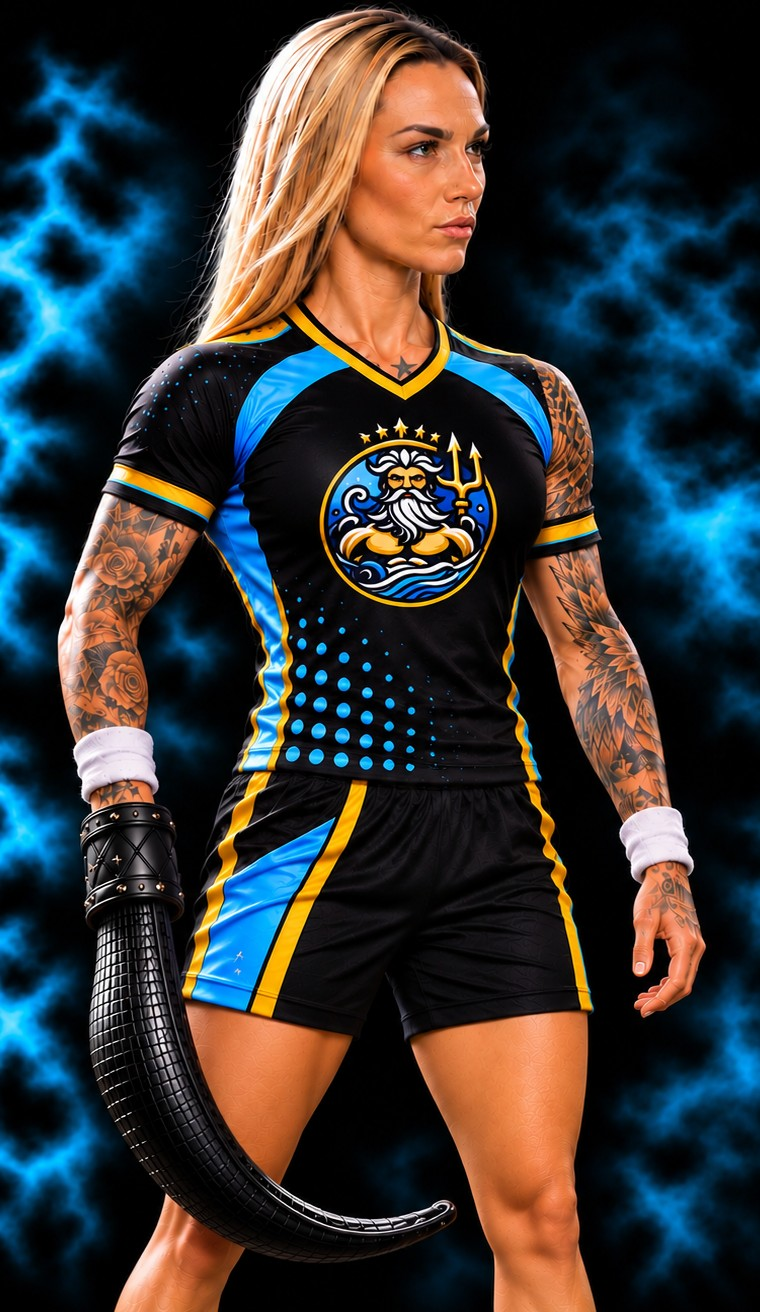
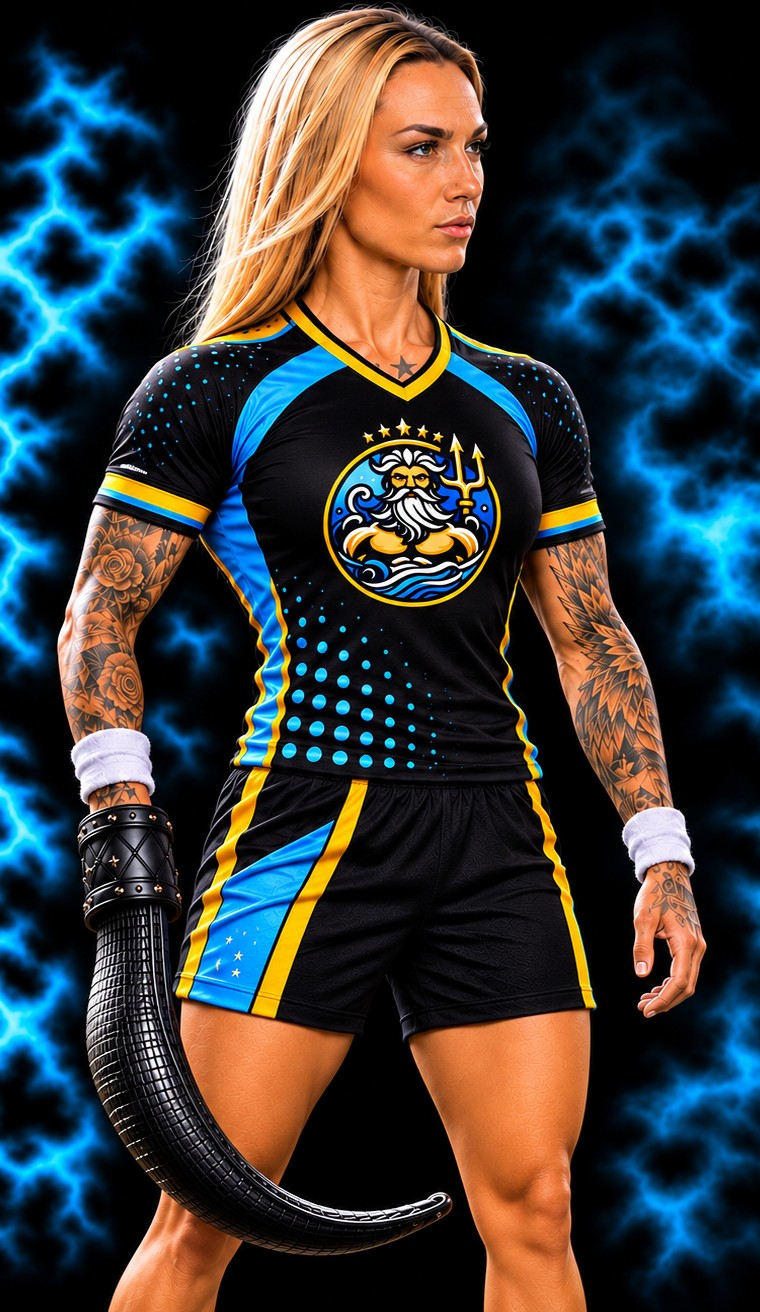
Britain Hart: new Skunk Apes, Booties, Seamen and Team USA pictures
Claude-Session: https://claude.ai/code/session_01RXYkimbn35SjoihCfai7fS

diff --git a/index.html b/index.html
@@ -18,7 +18,7 @@ img { max-width: 100%; }
 [hidden] { display: none !important; }
 </style>
 <script>
-window.FL_BUILD = "20261125214802";
+window.FL_BUILD = "20261125232235";
 window.FL_RELAY = "wss://relay-production-5e78c1a2.up.railway.app/ws";
 window.FL_STATS = "https://relay-production-5e78c1a2.up.railway.app/t";
 window.FL_FEEDBACK = "https://relay-production-5e78c1a2.up.railway.app/feedback";
@@ -1628,7 +1628,7 @@ window.FLFeedback = (function () {
   var PROMO = window.FL_PROMO || null;
   if (PROMO && !PROMO._v) {                                       // the pictures were redone without smoke: a new address so no phone shows a saved old one
     PROMO._v = 1;
-    var bump = function (o) { if (o) for (var k in o) { if (typeof o[k] === 'string') { if (/\.jpg$/.test(o[k])) o[k] += '?s=11'; } else if (o[k] && typeof o[k] === 'object') bump(o[k]); } };
+    var bump = function (o) { if (o) for (var k in o) { if (typeof o[k] === 'string') { if (/\.jpg$/.test(o[k])) o[k] += '?s=12'; } else if (o[k] && typeof o[k] === 'object') bump(o[k]); } };
     (PROMO.people || []).forEach(function (w) { bump(w.art); bump(w.solo); }); bump(PROMO.blank);
   }                           // a limited-edition match-up page: its own landing screen, no setup page
   function save() { if (PROMO) return; try { localStorage.setItem(STORE, JSON.stringify(cfg)); } catch (e) { /* ignore */ } }
@@ -2305,8 +2305,8 @@ window.FLFeedback = (function () {
       '</section>' +
       '<section class="wz-step" id="wz6" hidden>' + wzTop(4, 'Limited Edition Skins') +
         '<p class="wz-sub">Tap a skin to purchase. $0.99 per month each.</p><div class="wz-skins">' +
-        [['1928 Mickey', 'skin-mickey.jpg'], ['1926 Pooh', 'bh-b-l-14.jpg'], ['1929 Popeye', 'pp-b-l-14.jpg'], ['Santa', 'sx-s-l.jpg'], ['The Grinch', 'sx-g-l.jpg']].map(function (k) { return '<button type="button" class="wz-skin" data-wz="skin" data-skin="' + k[0] + '"><img src="' + k[1] + '?s=11" alt=""><b>' + k[0] + '</b></button>'; }).join('') +
-        '<button type="button" class="wz-skin wz-you" data-wz="avatar"><span class="wz-youart"><img src="kh-blank-l-14.jpg?s=11" alt=""><i>?</i></span><b>Your Avatar</b></button>' +
+        [['1928 Mickey', 'skin-mickey.jpg'], ['1926 Pooh', 'bh-b-l-14.jpg'], ['1929 Popeye', 'pp-b-l-14.jpg'], ['Santa', 'sx-s-l.jpg'], ['The Grinch', 'sx-g-l.jpg']].map(function (k) { return '<button type="button" class="wz-skin" data-wz="skin" data-skin="' + k[0] + '"><img src="' + k[1] + '?s=12" alt=""><b>' + k[0] + '</b></button>'; }).join('') +
+        '<button type="button" class="wz-skin wz-you" data-wz="avatar"><span class="wz-youart"><img src="kh-blank-l-14.jpg?s=12" alt=""><i>?</i></span><b>Your Avatar</b></button>' +
         '</div></section>' +
       '<div class="wz-pop wz-standby" id="wzStandby" hidden><div class="wz-popcard"><h3>Stand By</h3><p class="wz-sbcode">Game code <b id="wzSbCode"></b></p><p class="wz-atxt" id="wzSbMsg"></p><button type="button" class="wz-next" data-wz="standby-leave">Leave Game</button></div></div>' +
       '<div class="wz-pop" id="wzAvatar" hidden><form class="wz-popcard" id="wzAvatarForm" autocomplete="off"><h3>Your Avatar</h3>' +

diff --git a/johan-vs-gorka.html b/johan-vs-gorka.html
@@ -18,7 +18,7 @@ img { max-width: 100%; }
 [hidden] { display: none !important; }
 </style>
 <script>
-window.FL_BUILD = "20261125214802";
+window.FL_BUILD = "20261125232235";
 window.FL_RELAY = "wss://relay-production-5e78c1a2.up.railway.app/ws";
 window.FL_STATS = "https://relay-production-5e78c1a2.up.railway.app/t";
 window.FL_FEEDBACK = "https://relay-production-5e78c1a2.up.railway.app/feedback";
@@ -1628,7 +1628,7 @@ window.FLFeedback = (function () {
   var PROMO = window.FL_PROMO || null;
   if (PROMO && !PROMO._v) {                                       // the pictures were redone without smoke: a new address so no phone shows a saved old one
     PROMO._v = 1;
-    var bump = function (o) { if (o) for (var k in o) { if (typeof o[k] === 'string') { if (/\.jpg$/.test(o[k])) o[k] += '?s=11'; } else if (o[k] && typeof o[k] === 'object') bump(o[k]); } };
+    var bump = function (o) { if (o) for (var k in o) { if (typeof o[k] === 'string') { if (/\.jpg$/.test(o[k])) o[k] += '?s=12'; } else if (o[k] && typeof o[k] === 'object') bump(o[k]); } };
     (PROMO.people || []).forEach(function (w) { bump(w.art); bump(w.solo); }); bump(PROMO.blank);
   }                           // a limited-edition match-up page: its own landing screen, no setup page
   function save() { if (PROMO) return; try { localStorage.setItem(STORE, JSON.stringify(cfg)); } catch (e) { /* ignore */ } }
@@ -2305,8 +2305,8 @@ window.FLFeedback = (function () {
       '</section>' +
       '<section class="wz-step" id="wz6" hidden>' + wzTop(4, 'Limited Edition Skins') +
         '<p class="wz-sub">Tap a skin to purchase. $0.99 per month each.</p><div class="wz-skins">' +
-        [['1928 Mickey', 'skin-mickey.jpg'], ['1926 Pooh', 'bh-b-l-14.jpg'], ['1929 Popeye', 'pp-b-l-14.jpg'], ['Santa', 'sx-s-l.jpg'], ['The Grinch', 'sx-g-l.jpg']].map(function (k) { return '<button type="button" class="wz-skin" data-wz="skin" data-skin="' + k[0] + '"><img src="' + k[1] + '?s=11" alt=""><b>' + k[0] + '</b></button>'; }).join('') +
-        '<button type="button" class="wz-skin wz-you" data-wz="avatar"><span class="wz-youart"><img src="kh-blank-l-14.jpg?s=11" alt=""><i>?</i></span><b>Your Avatar</b></button>' +
+        [['1928 Mickey', 'skin-mickey.jpg'], ['1926 Pooh', 'bh-b-l-14.jpg'], ['1929 Popeye', 'pp-b-l-14.jpg'], ['Santa', 'sx-s-l.jpg'], ['The Grinch', 'sx-g-l.jpg']].map(function (k) { return '<button type="button" class="wz-skin" data-wz="skin" data-skin="' + k[0] + '"><img src="' + k[1] + '?s=12" alt=""><b>' + k[0] + '</b></button>'; }).join('') +
+        '<button type="button" class="wz-skin wz-you" data-wz="avatar"><span class="wz-youart"><img src="kh-blank-l-14.jpg?s=12" alt=""><i>?</i></span><b>Your Avatar</b></button>' +
         '</div></section>' +
       '<div class="wz-pop wz-standby" id="wzStandby" hidden><div class="wz-popcard"><h3>Stand By</h3><p class="wz-sbcode">Game code <b id="wzSbCode"></b></p><p class="wz-atxt" id="wzSbMsg"></p><button type="button" class="wz-next" data-wz="standby-leave">Leave Game</button></div></div>' +
       '<div class="wz-pop" id="wzAvatar" hidden><form class="wz-popcard" id="wzAvatarForm" autocomplete="off"><h3>Your Avatar</h3>' +
